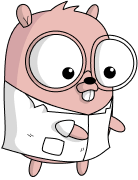
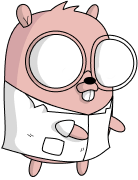
code cleanup (images removed)

Changed region(s): [[0.6957, 0.3611, 0.8406, 0.4444], [0.4348, 0.3611, 0.5507, 0.4444]]

diff --git a/index.html b/index.html
@@ -19,22 +19,22 @@
         </h3>
       </div>
       <div class="flex-item flex-item-2">
-        <img src="./images/Maintenance2.png" alt="Maintenance" />
+        <img src="./images/Maintenance.png" alt="Maintenance" />
       </div>
     </main>
 
     <section class="container flex">
       <div class="gofer-container">
-        <img id="gofer-image" src="./images/ggofer.png" />
+        <img id="gofer-image" src="./images/gofer.png" />
         <div id="eyes">
           <img
             class="eye"
-            src="./images/eye4.png"
+            src="./images/eye.png"
             style="top: 45px; left: 37px; width: 22px"
           />
           <img
             class="eye"
-            src="./images/eye4.png"
+            src="./images/eye.png"
             style="top: 45px; left: 95px; width: 22px"
           />
         </div>
